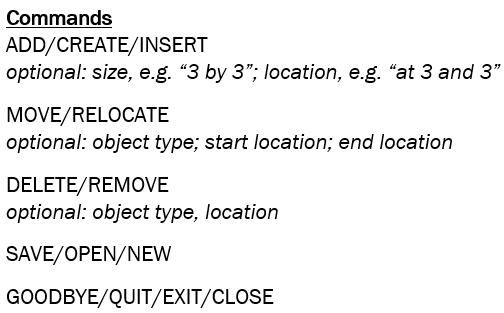
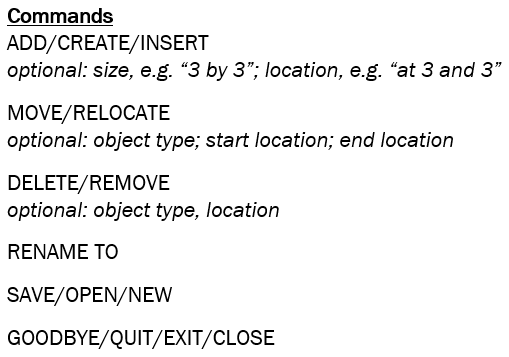
Rename things, couch object, fixed bug where speech listener thread would have old roomGrid object but needed the up-to-date one (as when opening project files).

diff --git a/graphics.py b/graphics.py
@@ -45,13 +45,17 @@ class roomObject():
             surface.blit(text_surface, (x, y))
 
     def getAttributes(self):
+        text = ""
+        if self.text != None:
+            text = self.text.decode("utf-8")
+        
         attributes = {
             "color": self.color,
             "rect": self.rect,
             "circle": self.circle,
             "outline": self.outline,
             "textColor": self.textColor,
-            "text": self.text.decode("utf-8"),
+            "text": text,
             "objType": self.objType,
             "footprint": self.footprint
         }
@@ -64,6 +68,10 @@ class roomObject():
         else:
             self.rect = [x, y] + self.rect[2:]
             self.footprint = [xs, ys] + self.footprint[2:]
+
+    def setText(self, text):
+        if text is not None:
+            self.text = bytes(str(text), "utf-8")
 
 class gridSpace():
     def __init__(self,
@@ -154,6 +162,7 @@ class grid():
         self.hoverSpace = [0, 0]
         self.lockedSpace = [0, 0]
         self.waitFunction = []
+        self.dead = False
 
         self.objects = set()
         self.createGridSpaces(width, height)
@@ -252,16 +261,18 @@ class grid():
     def moveObject(self, objType, location, to_location):
         """Removes the first instance of object with objType that exists at location"""
         obj = self.getSmallestAt(location, objType)
-        self.removeObject(objType, location)
+        
+        if obj != False:
+            self.removeObject(objType, location)
 
-        # If circle, use get_coords
-        if obj.circle is not None:
-            coords = self.getCoords(to_location, True)
-            obj.setPos(coords[0], coords[1], to_location[0], to_location[1])
-        elif obj.rect is not None:
-            obj.setPos(to_location[0] * self.spaceDims[0], to_location[1] * self.spaceDims[1], to_location[0], to_location[1])
+            # If circle, use get_coords
+            if obj.circle is not None:
+                coords = self.getCoords(to_location, True)
+                obj.setPos(coords[0], coords[1], to_location[0], to_location[1])
+            elif obj.rect is not None:
+                obj.setPos(to_location[0] * self.spaceDims[0], to_location[1] * self.spaceDims[1], to_location[0], to_location[1])
 
-        self.addObject(obj)
+            self.addObject(obj)
 
         return True
 
@@ -294,6 +305,7 @@ class grid():
                                  circle=obj["circle"],
                                  outline=obj["outline"],
                                  text=obj["text"],
+                                 textColor=obj["textColor"],
                                  objType=obj["objType"],
                                  footprint=obj["footprint"])
             self.addObject(roomObj)
@@ -301,10 +313,20 @@ class grid():
     def removeObject(self, objType, location):
         """Removes the first instance of object with objType that exists at location"""
         obj = self.getSmallestAt(location, objType)
-        for w in range(obj.footprint[2]):
-            for h in range(obj.footprint[3]):
-                self.gridSpaces[obj.footprint[0] + w][obj.footprint[1] + h].removeObject(obj)
-        self.objects.remove(obj)
+        if obj != False:
+            for w in range(obj.footprint[2]):
+                for h in range(obj.footprint[3]):
+                    self.gridSpaces[obj.footprint[0] + w][obj.footprint[1] + h].removeObject(obj)
+            self.objects.remove(obj)
+
+        return True
+
+    def renameObject(self, objType, location, text):
+        """Renames the first instance of object with objType that exists at location"""
+        obj = self.getSmallestAt(location, objType)
+        
+        if obj != False:
+            obj.setText(text)
 
         return True
 
@@ -383,7 +405,10 @@ class messageCenter():
         self.room = roomObject((255, 0, 0), (self.x, self.y + 110, 60, 20), outline=2, objType="room")
         self.room_label = [self.font.render("Room", 1, self.defaultColor), self.x + 70, self.y + 110]
 
-        self.commands = [pygame.image.load("img/commands.png"), self.x, self.y + 140]
+        self.couch = roomObject((154, 0, 130), (self.x, self.y + 140, 60, 20), objType="couch")
+        self.couch_label = [self.font.render("Couch", 1, self.defaultColor), self.x + 70, self.y + 140]
+
+        self.commands = [pygame.image.load("img/commands.png"), self.x, self.y + 170]
 
     def draw(self, surface, color = None):
         # The key to objects
@@ -395,6 +420,9 @@ class messageCenter():
 
         self.room.draw(surface)
         surface.blit(self.room_label[0], self.room_label[1:])
+
+        self.couch.draw(surface)
+        surface.blit(self.couch_label[0], self.couch_label[1:])
 
         surface.blit(self.commands[0], self.commands[1:])
 

diff --git a/speech.py b/speech.py
@@ -106,24 +106,27 @@ def process_command(text, roomGrid):
             outline = 2
             obj_type = "room"
             text_color = (0, 0, 0)
-        else:
-            # TODO
-            shape = "circle"
-            color = (0, 0, 255)
+        elif "couch" in text or "sofa" in text:
+            shape = "rectangle"
+            color = (154, 0, 130)
+            obj_type = "couch"
             text_color = (255, 255, 255)
+        else:
+            shape = None
         
-        # Post event
-        pygame.event.post(
-            pygame.event.Event(events.design_type,
-                               method="create",
-                               shape=shape,
-                               location=location,
-                               color=color,
-                               size=size,
-                               outline=outline,
-                               obj_type=obj_type,
-                               text=called,
-                               text_color=text_color))
+        if shape is not None:
+            # Post event
+            pygame.event.post(
+                pygame.event.Event(events.design_type,
+                                method="create",
+                                shape=shape,
+                                location=location,
+                                color=color,
+                                size=size,
+                                outline=outline,
+                                obj_type=obj_type,
+                                text=called,
+                                text_color=text_color))
     
     # Moving things
     # fruit is a keyword because Google thinks "fruit" and "cocktail" go together real nice...
@@ -137,6 +140,8 @@ def process_command(text, roomGrid):
             location[0] -= 1
             location[1] -= 1
             remaining_text = text[(text.index("and") + 1):]
+        else:
+            remaining_text = text
 
         if "and" in remaining_text:
             to_location = either_side(remaining_text, "and")
@@ -150,11 +155,51 @@ def process_command(text, roomGrid):
             obj_type = "table"
         elif "room" in text:
             obj_type = "room"
+        elif "couch" in text or "sofa" in text:
+            obj_type = "couch"
         elif "this" in text or "that" in text:
             obj_type = "any"
 
         # Post event
         evt = pygame.event.Event(events.design_type, method="move", location=location, to_location=to_location, obj_type=obj_type)
+        pygame.event.post(evt)
+
+    # Renaming things
+    elif "rename" in text:
+        location = [-1, -1]
+
+        # Parameters
+        if "at" in text:
+            location = either_side(text, "and")
+            location[0] -= 1
+            location[1] -= 1
+
+        if "to" in text:
+            called = text[text.index("to") + 1:]
+            called = " ".join(called)
+        elif "as" in text:
+            called = text[text.index("as") + 1:]
+            called = " ".join(called)
+        elif "2" in text:
+            called = text[text.index("2") + 1:]
+            called = " ".join(called)
+        else:
+            called = None
+
+        # Object types
+        if "cocktail" in text:
+            obj_type = "cocktail"
+        elif "table" in text:
+            obj_type = "table"
+        elif "room" in text:
+            obj_type = "room"
+        elif "couch" in text or "sofa" in text:
+            obj_type = "couch"
+        elif "this" in text or "that" in text:
+            obj_type = "any"
+
+        # Post event
+        evt = pygame.event.Event(events.design_type, method="rename", location=location, obj_type=obj_type, text=called)
         pygame.event.post(evt)
 
     # Deleting things
@@ -174,6 +219,8 @@ def process_command(text, roomGrid):
             obj_type = "table"
         elif "room" in text:
             obj_type = "room"
+        elif "couch" in text or "sofa" in text:
+            obj_type = "couch"
         elif "this" in text or "that" in text:
             obj_type = "any"
 
@@ -192,10 +239,10 @@ def listen(roomGrid):
     r.energy_threshold = 1000
     with sr.Microphone() as source:
         while True:
-            print("Say something!")
-            audio = r.listen(source, phrase_time_limit=6)
+            if roomGrid.dead:
+                break
 
-            print("let's see...")
+            audio = r.listen(source, phrase_time_limit=6)
 
             try:
                 pygame.event.post(events.capture_space_event)

diff --git a/main.py b/main.py
@@ -81,13 +81,23 @@ while not done:
 
                 path = filedialog.askopenfilename(title="Choose a file.", filetypes=[("JSON", ".json")], defaultextension=".json")
 
+                roomGrid.dead = True
                 roomGrid = grid(GRID_DIMS[0], GRID_DIMS[1], GRID_PX_DIMS[0], GRID_PX_DIMS[1], True)
                 roomGrid.openFile(path)
+
+                listener_thread = threading.Thread(target=listen, args=[roomGrid])
+                listener_thread.daemon = True
+                listener_thread.start()
 
                 if window_const == pygame.FULLSCREEN:
                     pygame.display.set_mode(SCREEN_DIMS, pygame.FULLSCREEN)
             elif event.method == "new":
+                roomGrid.dead = True
                 roomGrid = grid(GRID_DIMS[0], GRID_DIMS[1], GRID_PX_DIMS[0], GRID_PX_DIMS[1], True)
+
+                listener_thread = threading.Thread(target=listen, args=[roomGrid])
+                listener_thread.daemon = True
+                listener_thread.start()
             elif event.method == "save":
                 messageCenter.setText("Saving...")
                 roomGrid.saveFile(window_const, SCREEN_DIMS)
@@ -172,6 +182,16 @@ while not done:
                 roomGrid.setWaitFunction(None, None)
 
                 roomGrid.moveObject(objType, location, to_location)
+        
+        # Renaming things
+        elif event.type == events.design_type and event.method == "rename":
+            location = event.location
+            if location[0] >= GRID_DIMS[0] or location[1] >= GRID_DIMS[1]:
+                continue
+            elif location == [-1, -1]:
+                location = roomGrid.lockedSpace
+            
+            roomGrid.renameObject(event.obj_type, location, event.text)
 
         # Deleting things
         elif event.type == events.design_type and event.method == "delete":
@@ -192,8 +212,6 @@ while not done:
     info = getLeapInfo()
     if info.connected:
         hand = getLeapFrame().hands[0]
-        #x_window = int(np.interp(hand.palm_pos[0], [-150, 150], [0, GRID_PX_DIMS[0]]))
-        #y_window = int(np.interp(hand.palm_pos[1], [100, 350], [GRID_PX_DIMS[1], 0]))
         x_grid = int(np.interp(hand.palm_pos[0], [-150, 150], [0, GRID_DIMS[0] - 1]))
         y_grid = int(np.interp(hand.palm_pos[1], [100, 350], [GRID_DIMS[1] - 1, 0]))
 
